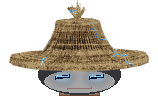
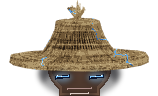
Fix the rig faults that made Lightning look disassembled
Four separate assembly bugs, all visible at sprite size:

The far arm was a copy of the near one, so it bent the same way and its hand
crossed into his own chest, leaving a cuff and glove floating at his hip with
no sleeve. It is mirrored now, pivot and all, so each palm sits on its own
side.

The pelvis art was slimmed from 100px to 86 but its pivot still said 50, so
the whole skirt was drawn 7px to the left of the body it hangs from.

The feet hung above the floor, then punched through it, because the shoe's
pivot was 4px from the bottom of a part drawn for an ankle 14px off the
ground; it now rests 14px up from the sole. The shin was also 86px of art on
a 77px shin, which pushed the boot through the floor on its own.

The brim shadow was a hard opaque ellipse, so the face was a black band with
two slits, or after being lightened, a pale mask. It is its own blurred layer
now, dark under the brim and falling off at the jaw.

Poses are slimmer to suit: he stands nearly upright rather than squatting.

Changed region(s): [[0.2278, 0.7188, 0.7848, 1.0]]

diff --git a/tools/lightning_art.py b/tools/lightning_art.py
@@ -46,9 +46,9 @@ SKIN_LIT = (238, 198, 170)
 SKIN_DK = (156, 112, 84)
 SKIN_DEEP = (98, 68, 52)
 
-BEAD = (98, 114, 134)
-BEAD_LIT = (156, 174, 196)
-BEAD_DK = (52, 66, 84)
+BEAD = (86, 102, 122)
+BEAD_LIT = (128, 148, 172)
+BEAD_DK = (46, 58, 76)
 
 CAPE = (34, 30, 30)
 CAPE_LIT = (60, 52, 50)
@@ -61,8 +61,8 @@ STRAW_LIT = (238, 220, 180)
 STRAW_DK = (146, 120, 80)
 HATBAND = (58, 42, 28)
 
-TROUSER = (38, 38, 48)
-TROUSER_LIT = (58, 58, 70)
+TROUSER = (34, 34, 43)
+TROUSER_LIT = (47, 47, 57)
 TROUSER_DK = (22, 22, 30)
 
 BOOT = (34, 34, 42)
@@ -155,19 +155,21 @@ def torso():
     img.alpha_composite(beads)
 
     # --- the demon face worked into the bib --------------------------------
-    d.ellipse([48, 44, 86, 80], fill=(22, 22, 28, 235))
-    d.arc([48, 44, 86, 80], 200, 340, fill=BEAD_LIT + (200,), width=2)
-    for sx in (58, 72):
-        d.ellipse([sx - 5, 50, sx + 5, 59], fill=(214, 52, 46, 255))
-        d.ellipse([sx - 2.5, 52.5, sx + 2.5, 56.5], fill=(255, 176, 118, 255))
-    for x in range(52, 86, 6):
-        d.polygon([(x, 63), (x + 4, 63), (x + 2, 72)], fill=(238, 240, 246, 255))
-    for x in range(54, 84, 10):
-        d.polygon([(x, 79), (x + 4, 79), (x + 2, 72)], fill=(206, 212, 222, 255))
+    # A mask the size of the wearer's own face read as a second head stuck to
+    # his chest; on the concept it is a small motif stamped on the plate.
+    d.ellipse([55, 46, 77, 74], fill=(22, 22, 28, 235))
+    d.arc([55, 46, 77, 74], 200, 340, fill=BEAD_LIT + (200,), width=2)
+    for sx in (61, 71):
+        d.ellipse([sx - 3.5, 51, sx + 3.5, 58], fill=(214, 52, 46, 255))
+        d.ellipse([sx - 1.8, 53, sx + 1.8, 56], fill=(255, 176, 118, 255))
+    for x in range(58, 76, 4):
+        d.polygon([(x, 61), (x + 3, 61), (x + 1.5, 67)], fill=(238, 240, 246, 255))
+    for x in range(59, 75, 7):
+        d.polygon([(x, 73), (x + 3, 73), (x + 1.5, 67)], fill=(206, 212, 222, 255))
     # small horns curling off the mask
-    for sgn, x in ((-1, 50), (1, 84)):
-        d.line([(x, 50), (x + sgn * 7, 42), (x + sgn * 4, 35)],
-               fill=BEAD_LIT + (235,), width=3)
+    for sgn, x in ((-1, 57), (1, 75)):
+        d.line([(x, 52), (x + sgn * 5, 46), (x + sgn * 3, 41)],
+               fill=BEAD_LIT + (235,), width=2)
 
     # --- grey waist chevron and belt --------------------------------------
     d.polygon([(44, 90), (66, 103), (88, 90), (88, 99), (66, 113), (44, 99)],
@@ -238,9 +240,19 @@ def head():
     img.alpha_composite(char_rig._shade(face, (150, 110, 86),
                                       (196, 150, 118), SKIN_DEEP))
     d = ImageDraw.Draw(img)
-    d.ellipse([cx - 41, 54, cx + 41, 94], fill=(10, 10, 15, 212))   # brim shadow
-    d.ellipse([cx - 35, 70, cx + 35, 92], fill=(6, 6, 9, 92))       # deepest, jaw
-    d.line([(cx - 12, 88), (cx + 12, 87)], fill=(96, 50, 44, 175), width=2)
+    # The brim shadow was opaque enough to erase the jaw, which left a black
+    # band with nothing in it but eyes; softened, its hard elliptical edge
+    # instead read as a white mask with slits painted on. A shadow layer of its
+    # own, blurred, lands between the two: dark under the brim, falling off
+    # towards the chin so the face still has a bottom.
+    shade_layer = _blank((W, H))
+    sd = ImageDraw.Draw(shade_layer)
+    sd.ellipse([cx - 40, 50, cx + 40, 96], fill=(10, 10, 15, 178))
+    sd.ellipse([cx - 34, 70, cx + 34, 94], fill=(6, 6, 9, 86))
+    img.alpha_composite(shade_layer.filter(ImageFilter.GaussianBlur(2.6)))
+    d = ImageDraw.Draw(img)
+    d.line([(cx - 12, 88), (cx + 12, 87)], fill=(120, 66, 58, 150), width=2)
+    d.line([(cx - 9, 93), (cx + 9, 92)], fill=(150, 104, 84, 90), width=2)  # chin
 
     # --- the hat, straight out of the render -------------------------------
     # The concept's brim is a little under half the figure's width; the body is
@@ -279,28 +291,28 @@ def arm(near=True):
     # upper sleeve, hanging from the shoulder
     mask = Image.new("L", (W, H), 0)
     d = ImageDraw.Draw(mask)
-    d.polygon([(41, 14), (69, 14), (73, 54), (36, 58)], fill=255)
-    d.ellipse([sh[0] - 16, sh[1] - 9, sh[0] + 16, sh[1] + 16], fill=255)
-    d.ellipse([elbow[0] - 18, elbow[1] - 14, elbow[0] + 18, elbow[1] + 12], fill=255)
+    d.polygon([(43, 14), (67, 14), (70, 54), (39, 57)], fill=255)
+    d.ellipse([sh[0] - 13, sh[1] - 8, sh[0] + 13, sh[1] + 13], fill=255)
+    d.ellipse([elbow[0] - 15, elbow[1] - 12, elbow[0] + 15, elbow[1] + 10], fill=255)
     img.alpha_composite(char_rig._shade(mask, base, lit, dark))
 
     # forearm sleeve, angled out towards the enemy
     fmask = Image.new("L", (W, H), 0)
     fd = ImageDraw.Draw(fmask)
-    fd.line([elbow, wrist], fill=255, width=20)
-    fd.ellipse([elbow[0] - 11, elbow[1] - 11, elbow[0] + 11, elbow[1] + 11], fill=255)
-    fd.ellipse([wrist[0] - 11, wrist[1] - 11, wrist[0] + 11, wrist[1] + 11], fill=255)
+    fd.line([elbow, wrist], fill=255, width=17)
+    fd.ellipse([elbow[0] - 9, elbow[1] - 9, elbow[0] + 9, elbow[1] + 9], fill=255)
+    fd.ellipse([wrist[0] - 9, wrist[1] - 9, wrist[0] + 9, wrist[1] + 9], fill=255)
     img.alpha_composite(char_rig._shade(fmask, base, lit, dark))
 
     d = ImageDraw.Draw(img)
     # flared cuff at the wrist
-    d.line([(92, 80), (104, 88)], fill=(132, 134, 144, 255), width=26)
-    d.line([(95, 82), (102, 87)], fill=dark + (210,), width=18)
+    d.line([(93, 81), (103, 87)], fill=(104, 108, 120, 255), width=22)
+    d.line([(95, 82), (102, 87)], fill=dark + (210,), width=15)
 
     # hand: wrist, palm, four fingers
     hx, hy = 116, 96
-    d.ellipse([hx - 14, hy - 13, hx + 14, hy + 13], fill=skin[0] + (255,))
-    d.ellipse([hx - 10, hy - 10, hx + 8, hy + 4], fill=skin[1] + (205,))
+    d.ellipse([hx - 11, hy - 10, hx + 11, hy + 10], fill=skin[0] + (255,))
+    d.ellipse([hx - 8, hy - 8, hx + 6, hy + 3], fill=skin[1] + (205,))
     d.line([(hx - 4, hy + 5), (hx + 9, hy + 6)], fill=skin[2] + (185,), width=2)
     for i in range(3):
         d.line([(hx + 3, hy - 6 + i * 5), (hx + 13, hy - 5 + i * 5)],
@@ -315,6 +327,11 @@ def arm(near=True):
     # current: short arcs off the hand, not a fork
     _stroke(img, _zig(hx + 6, hy - 8, hx + 20, hy - 20, 4, 4, 0.7), width=2)
     _stroke(img, _zig(hx - 8, hy + 6, hx - 18, hy + 17, 3, 3, 2.1), width=2)
+    # The far arm was the near arm again, so its hand reached across his own
+    # chest and vanished behind the torso, leaving one floating glove. A
+    # mirrored part bends the other way and puts the hand on its own side.
+    if not near:
+        img = img.transpose(Image.FLIP_LEFT_RIGHT)
     return img
 
 
@@ -326,18 +343,24 @@ def thigh():
 
 
 def shin():
-    """Baggy trouser above, tall black boot below."""
-    W, H = 46, 86
-    leg = _limb((W, H), [(9, 2), (37, 2), (39, 38), (35, 84), (11, 84), (7, 38)],
+    """Baggy trouser above, tall black boot below.
+
+    The part is drawn only as long as the shin metric (77px), because the rig
+    hangs it from the knee and the ankle is exactly one shin-length below: art
+    longer than that pokes through the floor in every frame, and the foot is
+    what should be standing on it.
+    """
+    W, H = 46, 77
+    leg = _limb((W, H), [(9, 2), (37, 2), (39, 34), (35, 75), (11, 75), (7, 34)],
                 TROUSER, TROUSER_LIT, TROUSER_DK)
     bootmask = Image.new("L", (W, H), 0)
     bd = ImageDraw.Draw(bootmask)
-    bd.polygon([(7, 34), (39, 34), (35, 84), (11, 84)], fill=255)
+    bd.polygon([(7, 30), (39, 30), (35, 75), (11, 75)], fill=255)
     boot = char_rig._shade(bootmask, BOOT, BOOT_LIT, BOOT_DK)
     img = Image.alpha_composite(leg, boot)
     d = ImageDraw.Draw(img)
-    d.line([(5, 34), (41, 34)], fill=(140, 144, 154, 210), width=2)   # cuff
-    d.line([(10, 42), (34, 42)], fill=BOOT_LIT + (110,), width=2)
+    d.line([(5, 30), (41, 30)], fill=(104, 108, 118, 190), width=2)   # cuff
+    d.line([(10, 38), (34, 38)], fill=BOOT_LIT + (110,), width=2)
     return img
 
 
@@ -346,12 +369,15 @@ def foot():
     W, H = 52, 36
     mask = Image.new("L", (W, H), 0)
     d = ImageDraw.Draw(mask)
-    d.polygon([(6, 8), (30, 5), (50, 18), (48, 30), (8, 30)], fill=255)
-    d.ellipse([2, 6, 22, 30], fill=255)
+    # The sole is the bottom of the part, because the pivot sits on the ankle
+    # and the ankle is 14px off the floor: a shoe that stopped short of its own
+    # canvas hung the whole character in the air.
+    d.polygon([(6, 8), (30, 5), (50, 17), (49, 33), (8, 34)], fill=255)
+    d.ellipse([2, 6, 22, 34], fill=255)
     img = char_rig._shade(mask, BOOT, BOOT_LIT, BOOT_DK)
     d = ImageDraw.Draw(img)
-    d.line([(7, 29), (49, 27)], fill=(138, 142, 152, 220), width=2)
-    d.line([(9, 12), (27, 9)], fill=BOOT_LIT + (150,), width=2)
+    d.line([(7, 32), (48, 31)], fill=(104, 108, 118, 205), width=2)
+    d.line([(9, 12), (27, 9)], fill=BOOT_LIT + (120,), width=2)
     return img
 
 
@@ -404,11 +430,15 @@ def cape():
 # ------------------------------------------------------------------------ main
 RIG_JSON = {
     "pivots": {
-        "pelvis": [50, 16],
+        # pelvis art is 86 wide now, so the centre is 43, not the 50 the
+        # 100-wide original used: a stale pivot drew the whole skirt 7px left.
+        "pelvis": [43, 16],
         "arm_n": [56, 14],
-        "arm_f": [56, 14],
-        "foot_n": [14, 32],
-        "foot_f": [14, 32],
+        "arm_f": [92, 14],          # mirrored art, pivot mirrored too
+        # ankle joint sits 14px above the ground, so the pivot is placed 14px
+        # up from the sole (part height 36 - 14 = 20)
+        "foot_n": [14, 25],
+        "foot_f": [14, 25],
         "cape": [95, 12],
     },
 }

diff --git a/tools/char_rig.py b/tools/char_rig.py
@@ -911,13 +911,16 @@ POSE_SETS = {
         # Arms swung only part way down: the parts are cut in a guard, so
         # hanging them fully (-44) clasped the hands at his waist. Held here the
         # elbows stay wide and the palms sit forward, which is the stance the
-        # concept draws.
+        # concept draws. The far arm's part is MIRRORED, so its angle runs the
+        # other way to keep the two arms symmetric.
         "stance": dict(lean=-2, head=1, cape=-4,
-                       arm_n=(-20, 0, 0), arm_f=(-16, 0, 0),
-                       leg_n=(26, -16, 82), leg_f=(-28, 16, 98)),
+                       arm_n=(-18, 0, 0), arm_f=(14, 0, 0),
+                       leg_n=(10, -6, 86), leg_f=(-12, 8, 94)),
+        # He stands nearly upright in the concept; the old 26/-28 split squatted
+        # him into a crab stance that made the boots look enormous.
         "breath": dict(lean=-3, head=0, lift=1, cape=-2,
-                       arm_n=(-24, 0, 0), arm_f=(-20, 0, 0),
-                       leg_n=(26, -16, 82), leg_f=(-28, 16, 98)),
+                        arm_n=(-22, 0, 0), arm_f=(18, 0, 0),
+                        leg_n=(10, -6, 86), leg_f=(-12, 8, 94)),
     },
 }
 
